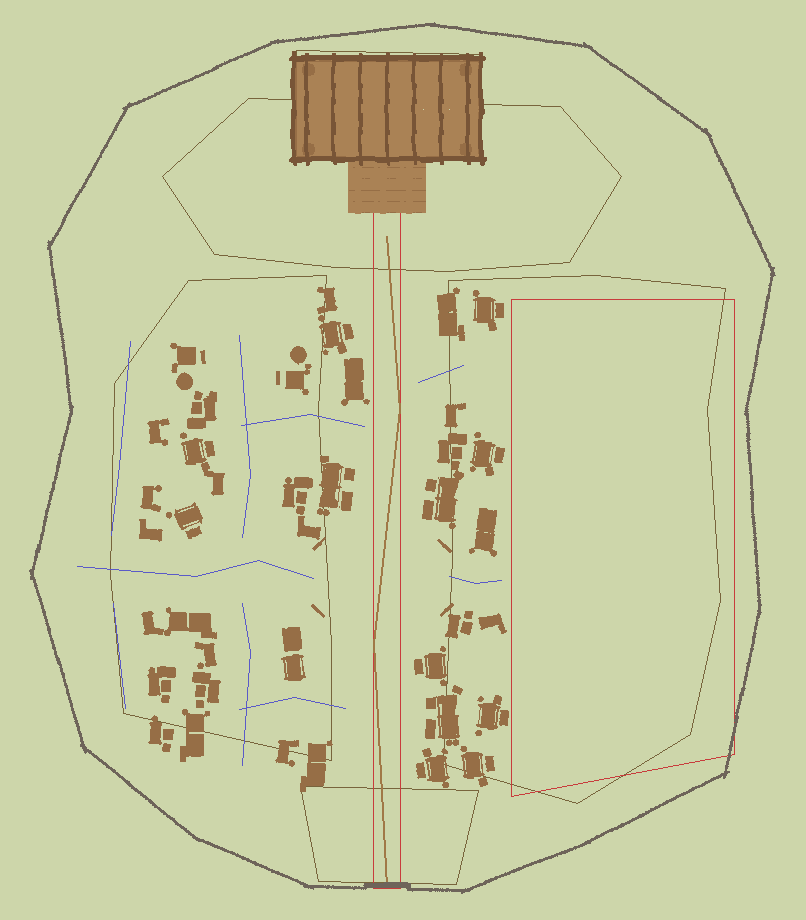
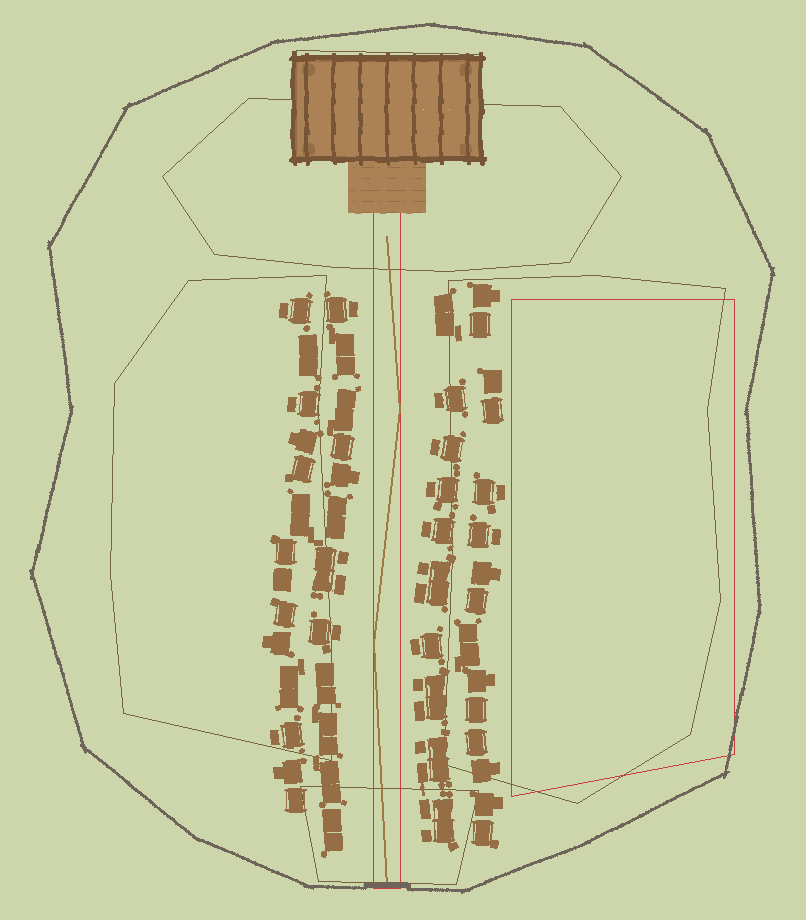
feat: market as two stall columns down the avenue
Per Barry's review: no maze and no open traders. The avenue becomes a
straight market street lined by two double-depth columns of proper
stalls (Whiterun double stands, Windhelm canvas pairs, gabled stalls):
21 on the west, 19 on the east, front rows facing the avenue and back
rows back to back. The rival pair and sweetroll slots are kept. Stall
labels now record which side of the lane they are on.

diff --git a/src/SkyrimFair.Generator/FairMarket.cs b/src/SkyrimFair.Generator/FairMarket.cs
@@ -180,7 +180,7 @@ internal static class FairMarket
                     "move it in fairWorld.market.fixed.");
             }
 
-            Commit(m, x, y, yaw, lane.Config.Name, f.Theme, 900 + i, 1);
+            Commit(m, x, y, yaw, $"{lane.Config.Name} {SideName(side)}", f.Theme, 900 + i, 1);
         }
 
         // ---- every lane, side by side ------------------------------------------------
@@ -263,7 +263,7 @@ internal static class FairMarket
                     }
 
                     var theme = c.Themes.Count == 0 ? "stall" : c.Themes[themeIndex++ % c.Themes.Count];
-                    Commit(m, x, y, yaw, c.Name, theme, seedA, n);
+                    Commit(m, x, y, yaw, $"{c.Name} {SideName(side)}", theme, seedA, n);
                     s += m.Width + (FairHash.Hash3(seedA, n, 70) < c.PocketChance
                         ? c.PocketMin + FairHash.Hash3(seedA, n, 71) * (c.PocketMax - c.PocketMin)
                         : c.GapMin + FairHash.Hash3(seedA, n, 72) * (c.GapMax - c.GapMin));
@@ -411,6 +411,9 @@ internal static class FairMarket
 
         return true;
     }
+
+    /// <summary>Which side of the direction of travel: left is +1.</summary>
+    private static string SideName(float side) => side > 0 ? "left" : "right";
 
     private static string Capitalise(string s) => s.Length == 0 ? s : char.ToUpperInvariant(s[0]) + s[1..];
 }

diff --git a/docs/AUDIT.md b/docs/AUDIT.md
@@ -2,44 +2,62 @@
 
 This is the current verified state of Skyrim Fair and Barry's local deployment. Git history holds older reports; this file is a complete current snapshot.
 
-## Current pass: market avenue, Traders' Crossing and trading rows (2026-09-22, night)
+## Current pass: market as two stall columns along the avenue (2026-09-22, night)
 
-This is a structural market-layout pass: stall **shells** and their arrangement, with only
-enough dressing to show the lanes. There are no merchants, NPCs, navmesh, systems or
-final themed merchandise. Generated by `FairMarket.cs` from `fairWorld.market`.
-Everything else in the plugin is unchanged apart from the new records.
+Barry's review of the first market layout: "rather than a maze, could we have it in
+columns? maybe 1x 20 and 1x 19 stalls", with "just all stalls" (no open traders, trestle
+tables or cask bars) and "keep stalls big".
 
-Previews from the written plugin: `docs/images/market_plan.png` (plan view: the stage,
-wall, zones, keep-outs in red, lanes in blue) and `docs/images/market_views.png` (from
-the gate up the avenue, and from the crossing down the West Branch). The renderer
-draws canvas the same flat brown as wood.
+**The market is now one straight market street: 40 proper stalls in two columns down
+both sides of the avenue**, from just inside the gate to the crowd square, with the
+stage closing the view.
 
-### Result
+| Column | Front row (faces the avenue) | Back row (back to back, faces out) | Total |
+| --- | --- | --- | --- |
+| **West** | 11 | 10 | **21** |
+| **East** | 10 | 9 | **19** |
+| | | | **40 stalls, 173 pieces** |
 
-**39 stall shells, 159 pieces, 39 named shell markers, 4 crossing banner posts.**
+- **Stall types only**: `grand_double` (Whiterun canvas double stand), `canvas_pair`
+  (merged Windhelm canvas stalls), `whiterun_stand` (gabled timber stall) and
+  `canvas_wide` (Windhelm canvas + Whiterun stand). The `open_trader`, `trestle` and
+  `cask_bar` modules remain defined in the config but are no longer used.
+- **Why double-depth.** At full size a stall averages about 470 of frontage, so a single
+  row down the ~5,500 of avenue holds about 10 a side. The second, back-to-back row is
+  how the columns reach Barry's numbers without shrinking the stalls, as Christmas
+  market stall islands do. The west column came out one over the 20 asked for; it can
+  be trimmed if wanted.
+- **The street**: straight (no meander), a constant 600 between the column fronts, with
+  20-45 gaps between stalls and no pockets.
+- The maze lanes, branches, alleys, back-lane infill and crossing banner posts are
+  removed from the config. The lane and infill machinery stays in `FairMarket.cs` for
+  later.
+- **Signature slots kept**: `SkyrimFairStallImperial01` and `...Stormcloak01` face
+  each other across the avenue at mid-length; `...Sweetroll01` stands near the crowd
+  square. Every stall still has a themed shell marker: food and drink along the
+  front rows, specialists and trades along the back rows.
+- The forecourt is no longer a keep-out. The first stalls stand 562 from the gate, so
+  the arrival space inside it stays open.
 
-| Zone / lane | Stalls | Character |
-| --- | --- | --- |
-| **Main avenue** (gate to crowd square) | 15 + 4 back-to-back | lined both sides, alternating pinches (480-520 between stall fronts) and pockets, gently meandering; the rival pair faces across a pinch just north of the crossing; the sweetroll stall sits near the crowd square |
-| **Traders' Crossing** | (avenue) | the avenue widens to 1,300 around (1992, 1000), with no stalls in its mouths; banner posts mark its four corners |
-| **West Branch** (the main trading row) | 4 | runs from the crossing to near the west wall, crossing the back and outer lanes as T-junctions |
-| **East Branch** | 1 | a short spur toward the archery range, which stays clear |
-| **West back lanes** (south and north of the branch) | 10 + 1 back-to-back | a secondary north-south lane through the market block |
-| **West outer lanes** | 4 | east-facing row inside the west wall |
-| **Alleys** (two west, one east) | 0 | **cut-through passages** only: they keep their corridor clear and make the mini-lanes and pockets between blocks |
+Previews from the plugin: `docs/images/market_plan.png`, and
+`docs/images/market_views.png` (from inside the gate, looking up the avenue).
 
-Shell themes handed out (each marker is `SkyrimFairStall<Theme><NN>`, a persistent
-`XMarkerHeading` at the stall front facing in, e.g. `SkyrimFairStallImperial01`):
+### Verification
 
-- **Rival and signature stalls**: imperial, stormcloak, sweetroll
-- **Food and drink** near the avenue ends: food, drink, sweets, pies, cheese, roast,
-  produce, bakery
-- **Specialists** in the west rows: mage, dwemer, books, alchemy, jewellery, elven,
-  scrolls, curios, herbs, candles, pottery, furs, toys
-- **Trades** at the edges: hunter, leather, rugs, timber, hay, bone, storage, tanner,
-  cooper, weaver, potter
+- Generator run twice: identical SHA256 `613c3418...` (405,255 bytes). Deployed
+  byte-identical.
+- Market meshes, vertex by vertex:
+  - 0 outside the compound, nearest 266 from the wall line
+  - 0 in the crowd square, the stage zone, the archery range and the 260-wide
+    gate-to-stage sightline band
+  - nearest to the gate 562
 
-These are slots for later merchant identities, not dressing.
+### What Barry should test
+
+1. Walk from the gate up the avenue: two solid columns of stalls, the stage at the end.
+2. Walk behind a column: the back rows face out onto the grass either side. Is that
+   useful, or should the back rows face the avenue in a second, set-back line instead?
+3. Is 600 between the fronts a comfortable street width?
 
 ### Stall kit (all vanilla Skyrim.esm, referenced, nothing copied)
 
@@ -69,7 +87,7 @@ Dressing: `Barrel02Static` `10C0E3`, `MeadBarrel01` `01E3A3`, `CrateSmall01-04`,
 - Solitude's small counters, tiny one-table traders
 - **Medieval Markets** (below), for now
 
-### Layout strategy
+### Layout machinery (the current config uses the avenue only)
 
 - **Lanes are data.** Each has a centreline, a half-width profile that pinches and
   swells along it, and a gentle meander. The avenue uses the approved avenue line.
@@ -91,17 +109,6 @@ Dressing: `Barrel02Static` `10C0E3`, `MeadBarrel01` `01E3A3`, `CrateSmall01-04`,
 - **Deterministic**: fixed integer hashes throughout.
 - Tuning is all in `fair.config.json`. `SKYRIMFAIR_TRACE=1` prints every refusal and
   its reason.
-
-### On the 30% condense
-
-The condense cost the market only a little. The west block lost about 400 of width, so
-one outer lane had to become a single row. Most of the early sparseness was layout-model
-problems, now fixed:
-- circular corridors spilled pocket widths sideways
-- stalls measured their set-back at one point
-- crossing lanes blocked each other
-
-Fixing those took it from 16 stalls to 39.
 
 ### Medieval Markets (external zip) audit
 
@@ -126,30 +133,6 @@ textures.
   which of the stall pieces above are wholly JJerem's; then they can be bundled with
   credit (no paid use). The cloth stall and the weapon racks would be the most useful:
   cloth variety, and the smithing rows.
-
-### Verification of this pass
-
-- Build clean. Generator run twice: identical SHA256 **`c0e25d02...`** (404,261 bytes).
-  Deployed byte-identical.
-- Market meshes checked vertex by vertex against the plugin:
-  - 0 outside the compound, and the nearest is 424 from the wall line
-  - 0 in the crowd square, the stage zone, the gate-to-stage sightline band and the
-    archery range
-  - One crate (`CrateSmallLong01` at 1236, -984) reaches 36 onto the entrance
-    forecourt's paint. That is harmless and has been left.
-- **Not verified in game**: walkability between stalls (no navmesh yet), stall
-  collision, and how the canvas reads.
-
-### What Barry should test in game
-
-1. From the gate, walk the avenue. Does it feel like a dense market street with pinches
-   and pockets, and does the stage stay the anchor?
-2. Is the Traders' Crossing recognisable, with the West Branch opening off it?
-3. Wander the west block's back lanes and passages. Is it a controlled maze, or too
-   sparse or too tight?
-4. Do the rival stalls read as facing each other across the street
-   (`player.moveto SkyrimFairStallImperial01`)?
-5. Any stall floating, clipping another, or blocking a lane?
 
 ## Condensed compound, stage fire pits, closed gate, open tundra (previous pass)
 
@@ -945,9 +928,9 @@ generator's plugin lands on the same design.
 | --- | --- |
 | Branch | `feat/bootstrap-generator` |
 | Output | `dist/SkyrimFair.esp` |
-| Size | 404,261 bytes (with the market; 390,425 before it) |
[1 lines of base64/hex data omitted]
-| Deployed | byte-identical at `E:\Modlists\Still In Skyrim\mods\Skyrim Fair\SkyrimFair.esp` (2026-09-22, night; replaced `092515db...`, the condensed build) |
+| Size | 405,255 bytes (market as two columns; 404,261 for the maze version) |
[1 lines of base64/hex data omitted]
+| Deployed | byte-identical at `E:\Modlists\Still In Skyrim\mods\Skyrim Fair\SkyrimFair.esp` (2026-09-22, night; replaced `c0e25d02...`, the maze market build) |
 | Sandbox cell | `SkyrimFairSandbox` (`0009E1:SkyrimFair.esp`), interior, 5 x 5 kit tiles, `coc SkyrimFairSandbox` in, `cow Tamriel -2 -4` out |
 | Isolated worldspace | `SkyrimFairWorld` (`000A16:SkyrimFair.esp`), 121 cells, `cow SkyrimFairWorld 0 0` in; palisade, gate and forest per the palisade pass, mountains per the mountain pass, main stage per the current pass |
 | Palisade assets | `meshes\barry_palisades\` (2 NIF) and `textures\barry_palisades\` (50 DDS), deployed byte-identical to `assets/` |

diff --git a/docs/CODEX_HANDOVER.md b/docs/CODEX_HANDOVER.md
@@ -105,8 +105,10 @@ Rules for this direction:
     That is Barry's call.
 - **The market** (`FairMarket.cs`, `fairWorld.market`), 2026-09-22, night, **pending
   Barry's review**:
-  - Vanilla stall modules line data-driven lanes (the avenue, the West and East Branches,
-    back and outer lanes, and alleys as passages).
+  - Barry replaced the first maze layout with **two double-depth stall columns down
+    both sides of the avenue**: 40 proper stalls (21 west, 19 east), big stall types
+    only, with front rows facing the avenue and back rows back to back. The lane
+    machinery (branches, alleys, infill) remains available in the code.
   - A stall is placed only where it clears every lane, keep-out, the gate-to-stage
     sightline band and every other stall. Each stall gets a themed persistent shell
     marker (`SkyrimFairStall<Theme><NN>`) for merchants later.
